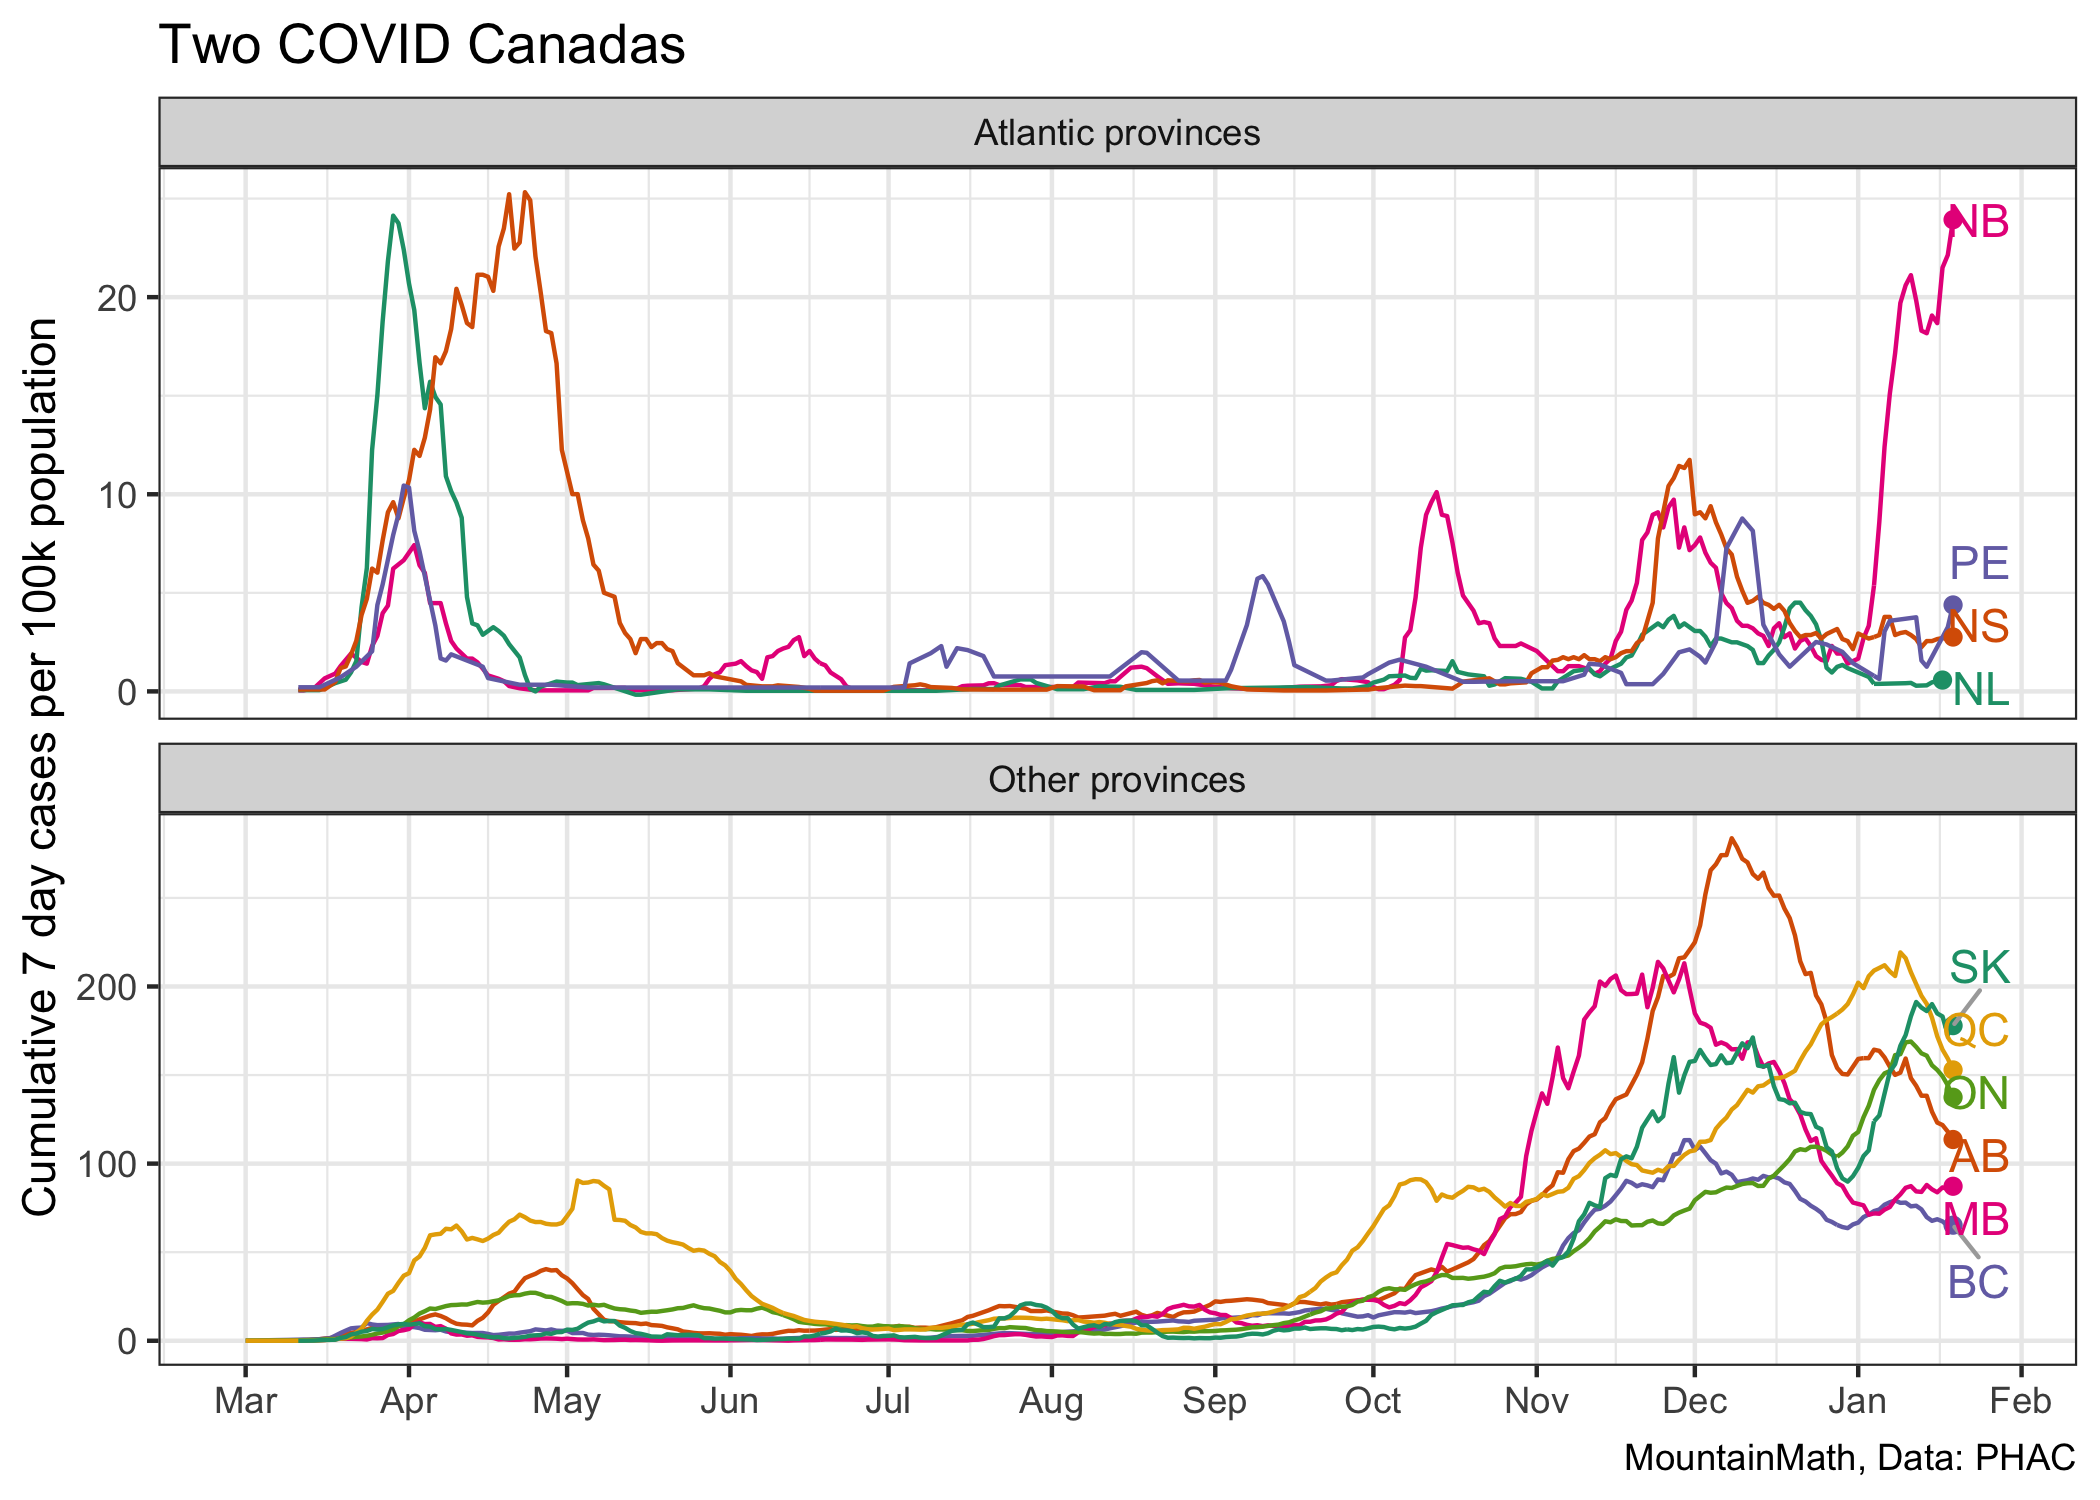
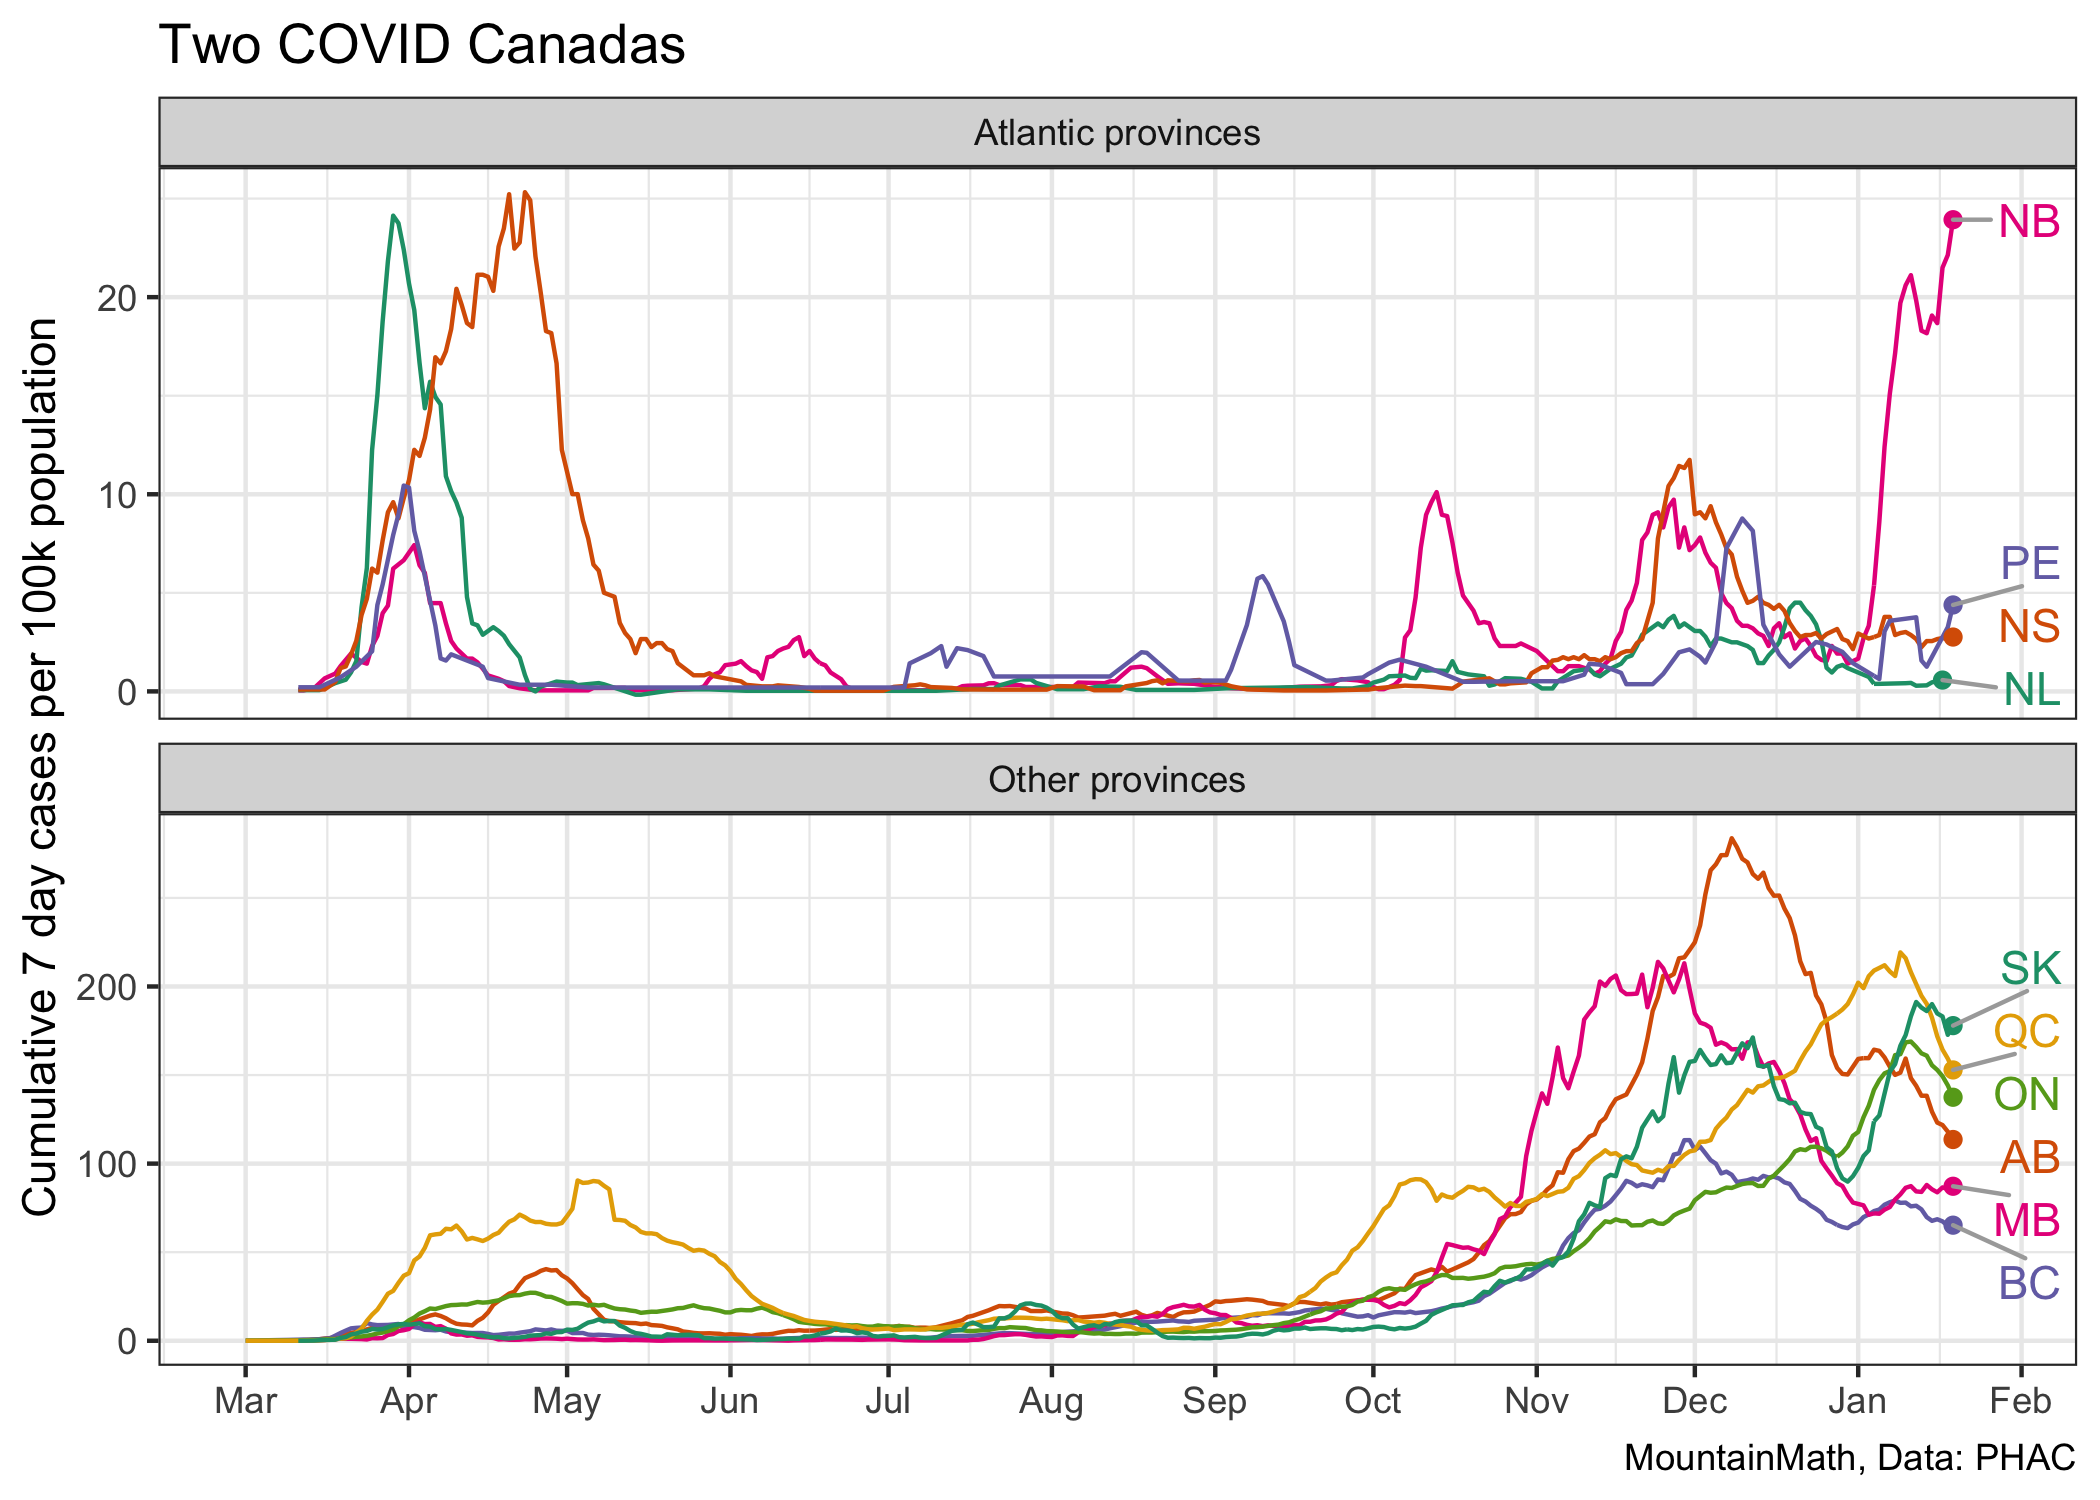
Two covid canadas update with trendline graph

Changed region(s): [[0.9286, 0.6133, 0.9905, 0.8893], [0.9286, 0.368, 0.9905, 0.4907], [0.9286, 0.1227, 0.9905, 0.1533]]

diff --git a/two_covid_canadas.md b/two_covid_canadas.md
@@ -1,7 +1,7 @@
 Two Covid Canadas
 ================
 Jens von Bergmann
-Last updated at 19 January, 2021 - 18:42
+Last updated at 20 January, 2021 - 09:53
 
 This notebook shows the confirmed COVID cases for Canadian provinces.
 The code for this notebook is [available for anyone to adapt and use for
@@ -9,7 +9,10 @@ their own
 purposes](https://github.com/mountainMath/BCCovidSnippets/blob/main/two_covid_canadas.Rmd).
 
 The Atlantic provinces have pursued very different COVID-19 strategies
-from the other provinces and have seen very different outcomes.
+from the other provinces and have seen very different outcomes. The
+7-day incidence, that is the cumulative number of cases over the past 7
+days per 100,000 population, has been used by many jurisdictions as a
+key metric to trigger policy interventions.
 
 <img src="two_covid_canadas_files/figure-gfm/two-covid-canadas-overview-1.png" width="1050" />
 
@@ -17,3 +20,18 @@ For better comparison we can plot the Atlantic provinces and the other
 provinces on different scales.
 
 <img src="two_covid_canadas_files/figure-gfm/two-covid-canadas-1.png" width="1050" />
+
+## Trend lines
+
+Sometimes it is useful to get a clearer view on trend lines. Rolling
+7-day sums (like above) or rolling averages (as often emplyed) are a
+problematic way to represent trend lines as the lag actual trends by 3
+days.
+
+A fairly simple trend line model like a (multiplicative) STL
+decomposition can ectract cleaner trend lines that also cover the most
+recent 3 days of data, at the expense of a bit of added volatility at
+the very end of the trend line where the trend line may shift slightly
+when new data comes in.
+
+<img src="two_covid_canadas_files/figure-gfm/two-covid-canadas-trend-1.png" width="1050" />
